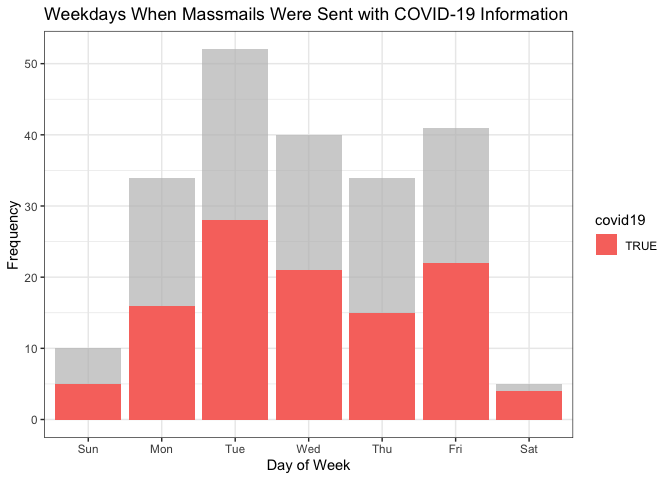
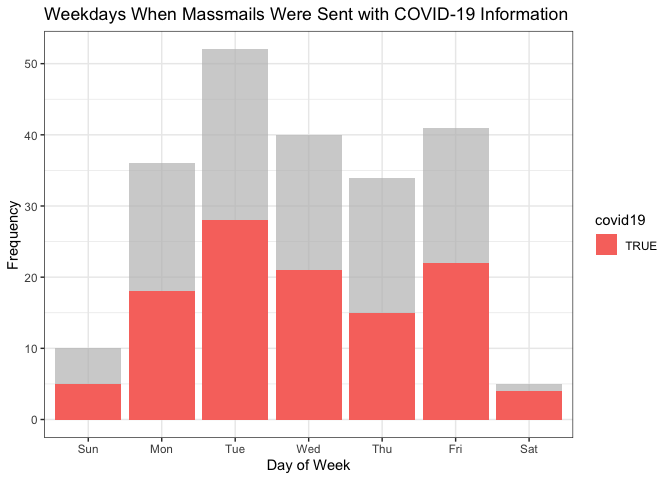
Re-build README.Rmd and Graphs

Changed region(s): [[0.1875, 0.5938, 0.3125, 0.6562], [0.1875, 0.3125, 0.3125, 0.375]]

diff --git a/README.md b/README.md
@@ -17,7 +17,7 @@ The archive may be viewed here:
 
 <https://massmail.illinois.edu/massmailArchive>
 
-Data has **1258** observations and **7** variables:
+Data has **1260** observations and **7** variables:
 
   - `datetime`: Date and time when the email was sent in the form of
     `YYYY-MM-DD HMS` with either CDT or CST.
@@ -205,16 +205,16 @@ head(most_popular_words, 10) %>%
 
 | word        | freq |
 | :---------- | ---: |
-| students    |  741 |
-| campus      |  684 |
-| university  |  674 |
-| illinois    |  427 |
-| faculty     |  375 |
-| covid       |  366 |
-| community   |  351 |
-| information |  312 |
-| staff       |  301 |
-| health      |  284 |
+| students    |  758 |
+| campus      |  706 |
+| university  |  685 |
+| illinois    |  432 |
+| covid       |  389 |
+| faculty     |  382 |
+| community   |  359 |
+| information |  321 |
+| staff       |  309 |
+| health      |  290 |
 
 #### Wordcloud
 
